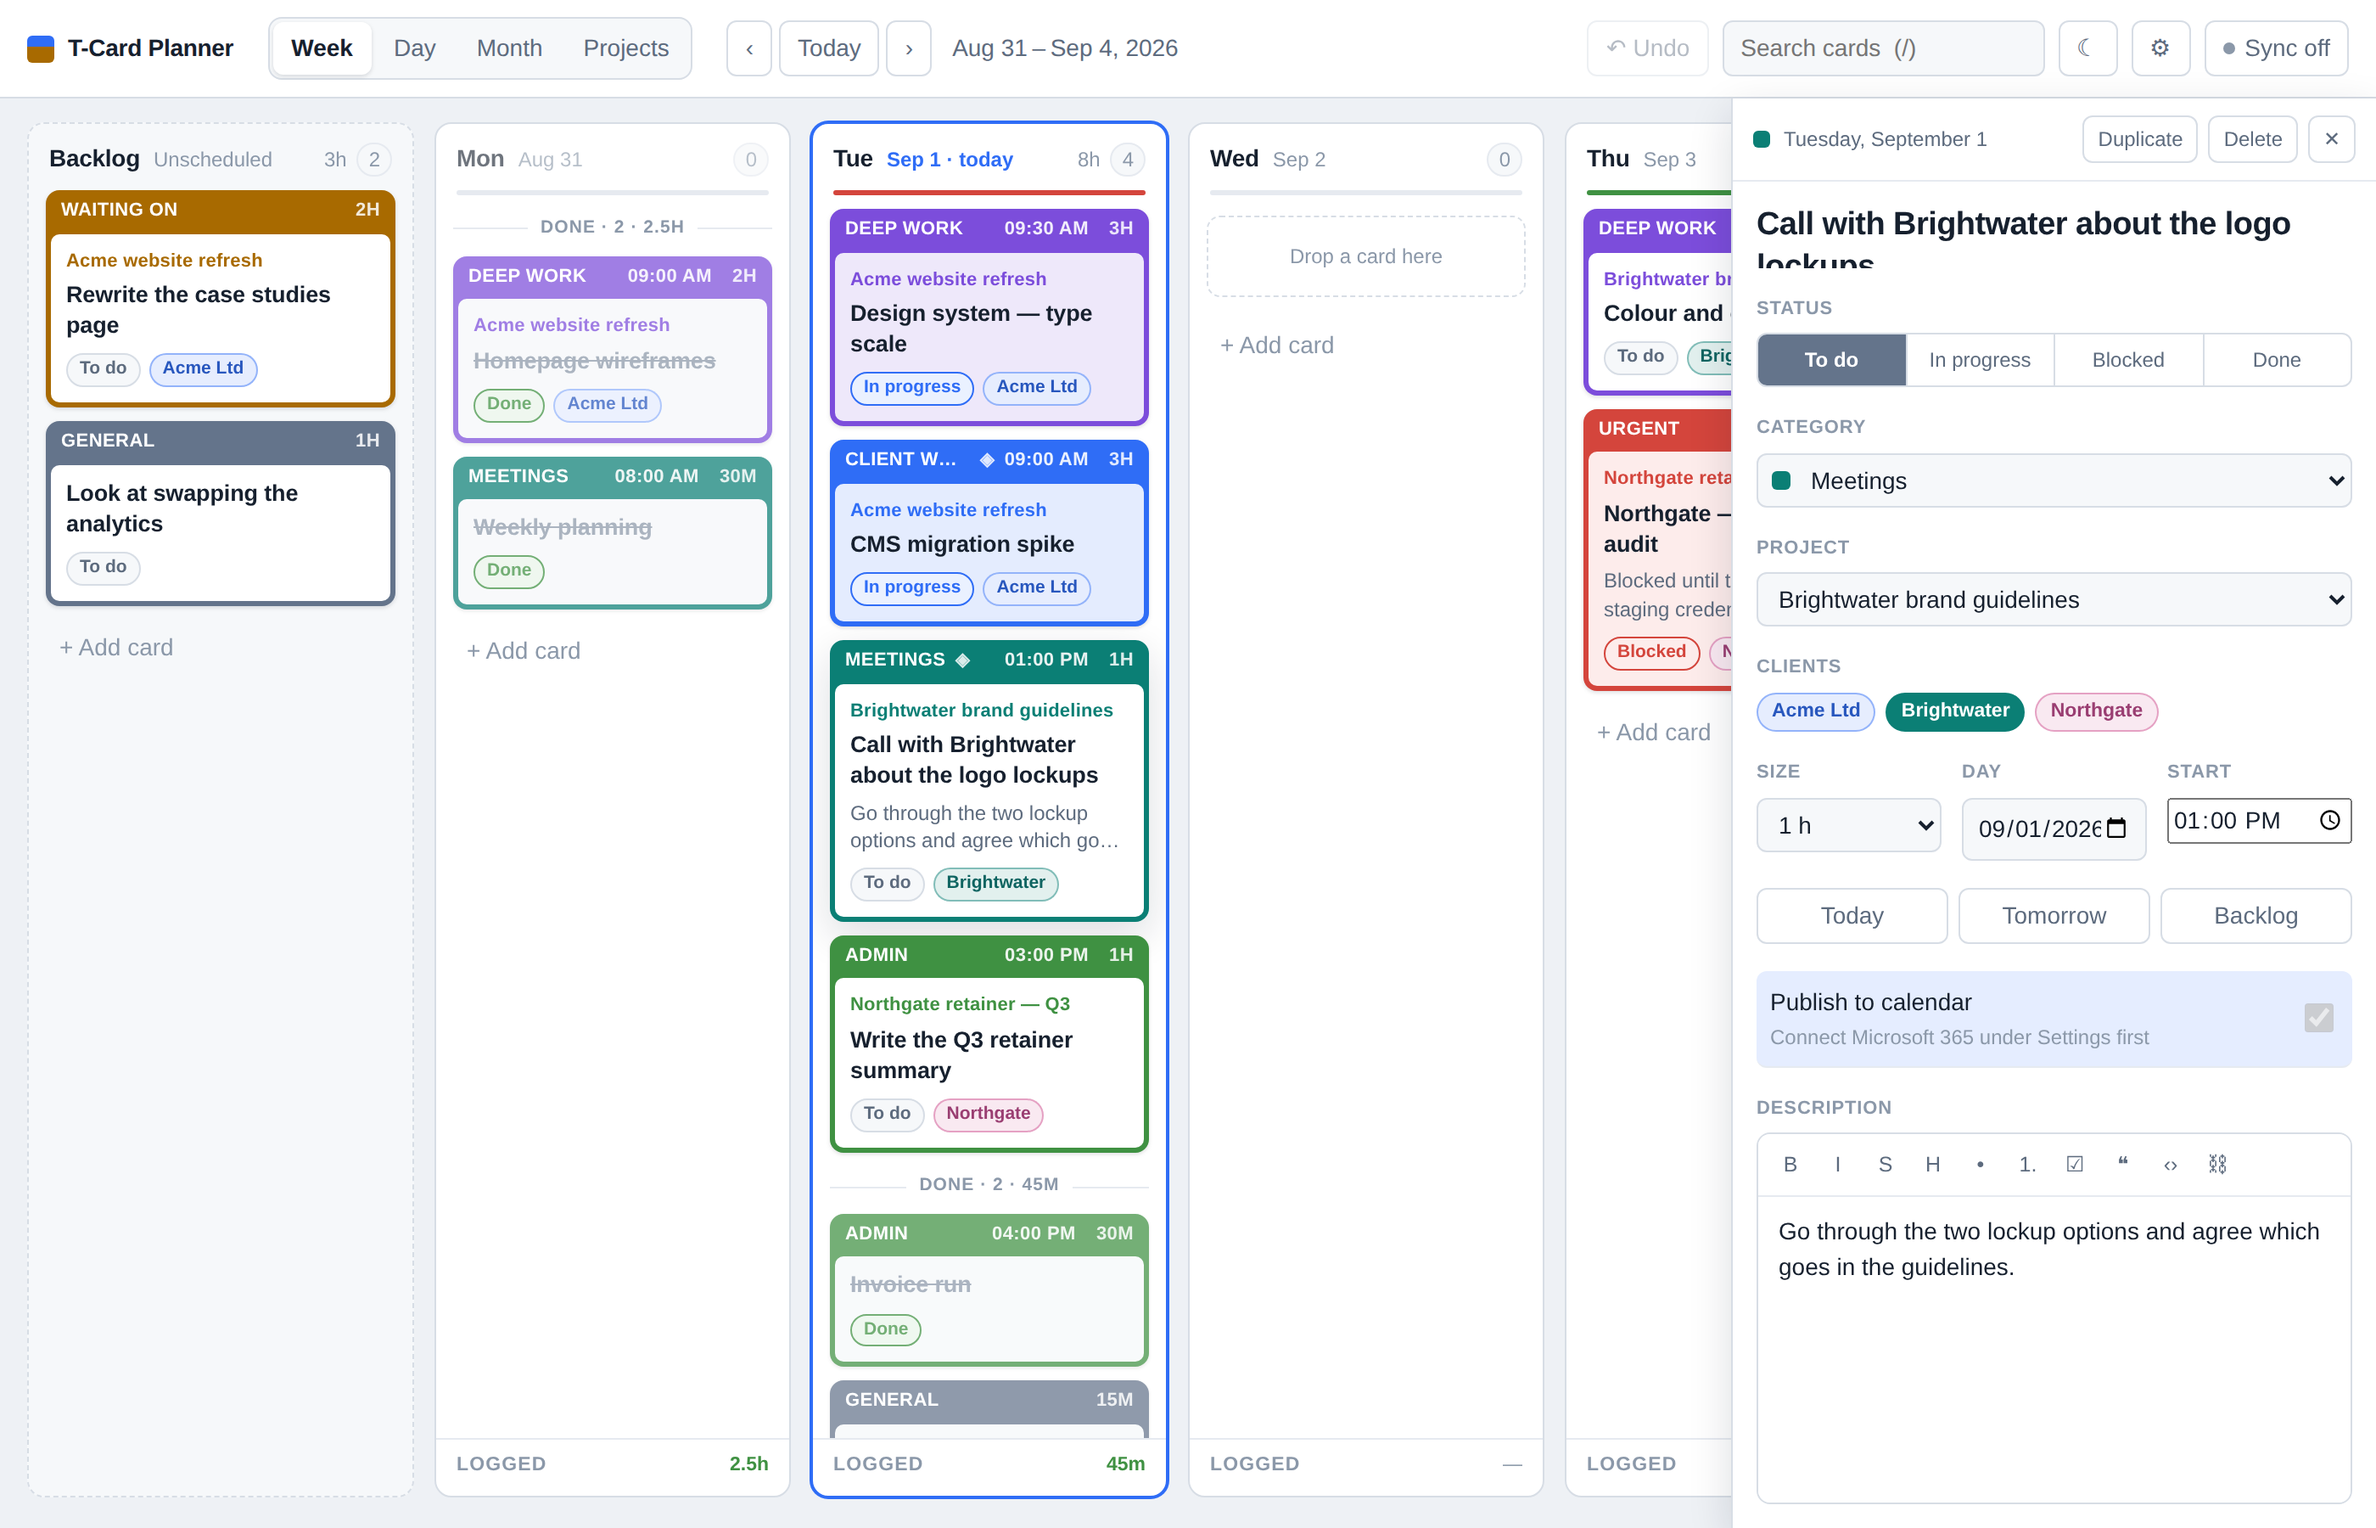
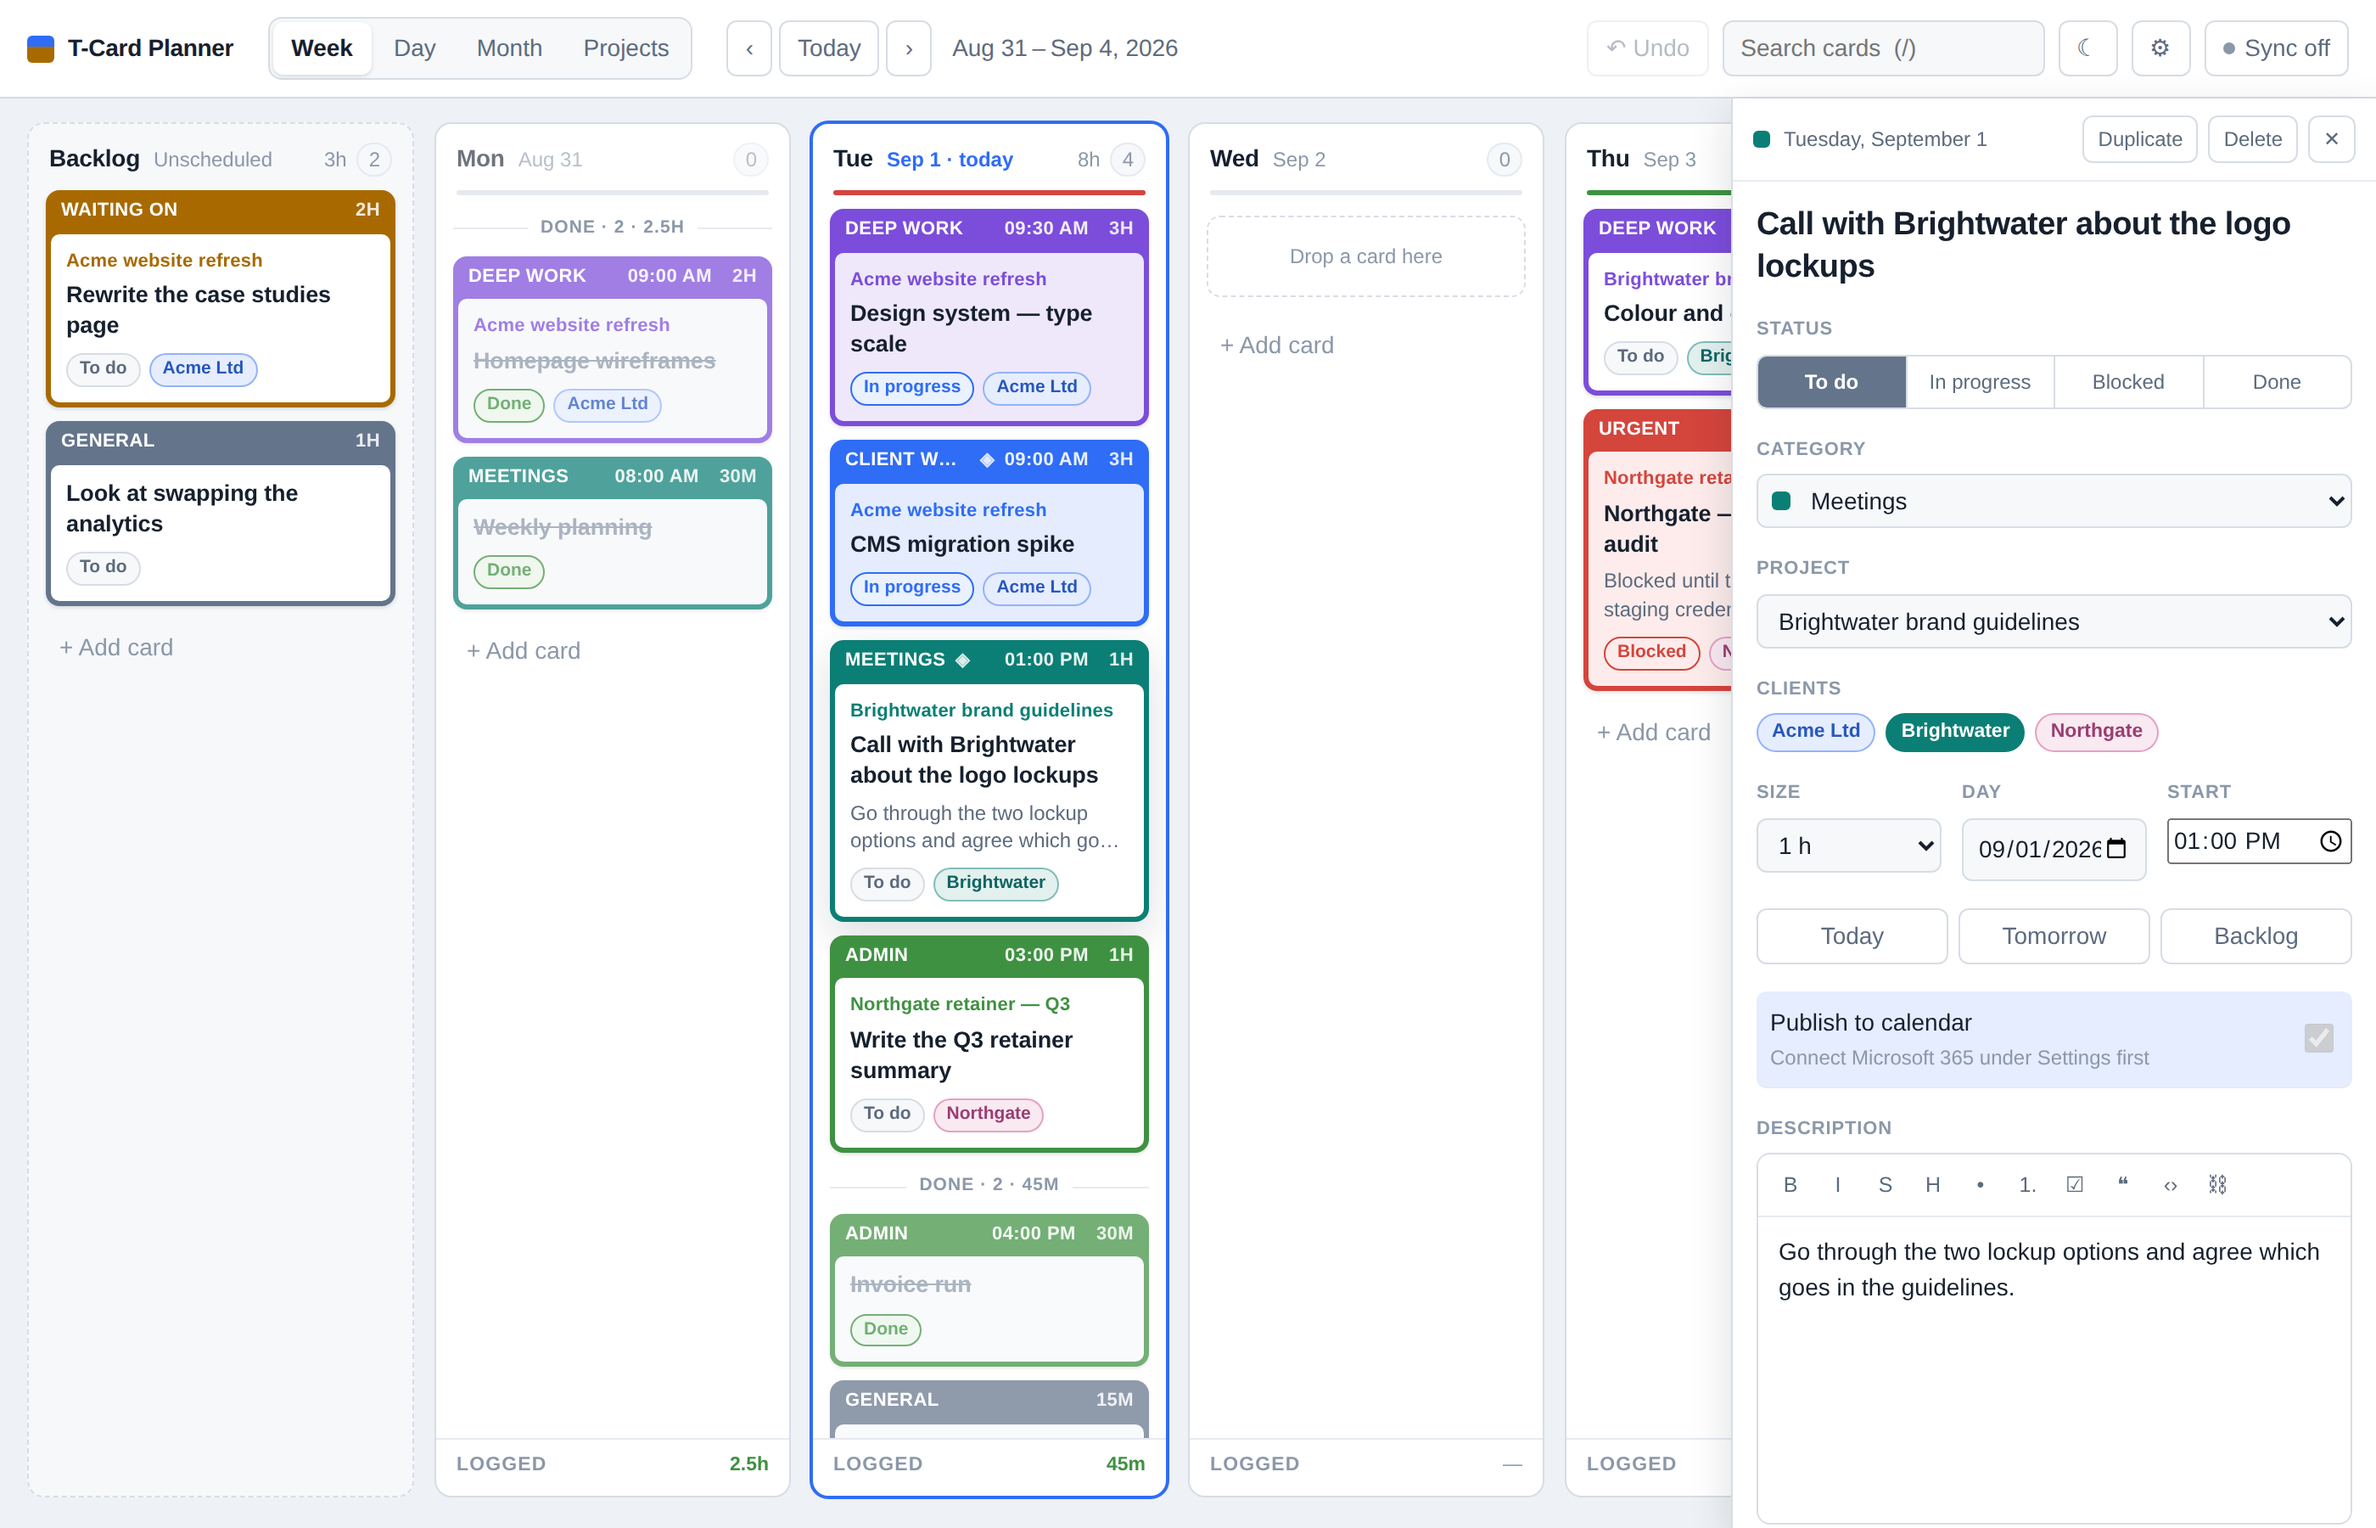
Stop the card panel squeezing its fields, so a long title fits
A two-line card title lost its second line. The panel is a column flex
container that scrolls, and its children kept the default `flex-shrink: 1`,
so a column of fields taller than the panel had every one of them shrunk a
little to try to avoid the scroll — the title included. That is also what
defeated `field-sizing: content`, which was on the title and computing a
height the layout then took back.

`flex: none` on the panel's children is the fix: the panel scrolls, its
contents keep the height they asked for.

The title still needs telling how tall it is, since a textarea will not
grow on its own, so it is measured and set from script rather than by
`field-sizing` — that also covers Firefox, which has no `field-sizing`.
It re-measures when the panel changes width, because a narrower panel wraps
the same title onto more lines; only a change of width counts, as reacting
to its own height change would loop.

Claude-Session: https://claude.ai/code/session_0158XyqVjYzRYRjqLMRmJDPS

Changed region(s): [[0.7146, 0.1556, 0.9943, 0.8711], [0.7457, 0.9956, 0.9943, 1.0]]

diff --git a/src/components/CardPanel.tsx b/src/components/CardPanel.tsx
@@ -1,4 +1,4 @@
-import { lazy, Suspense, useEffect, useRef, useState } from 'react';
+import { lazy, Suspense, useEffect, useLayoutEffect, useRef, useState } from 'react';
 import type { Card, CardSurface, CategoryId, LaneId, Status } from '../types';
 import { BACKLOG, CATEGORY_IDS, STATUSES, STATUS_LABELS, categoryLabel } from '../types';
 import { useCategories } from '../categories';
@@ -33,6 +33,40 @@ function fromTimeValue(value: string): number | null {
   const match = /^(\d{1,2}):(\d{2})$/.exec(value);
   if (!match) return null;
   return Number(match[1]) * 60 + Number(match[2]);
+}
+
+/**
+ * Grows a one-line textarea to fit what has been typed into it.
+ *
+ * `field-sizing: content` is meant to do this in CSS and doesn't here: inside
+ * the panel's column flex container it settles a line short of the text, so a
+ * two-line title loses its second line. Measuring the box we actually got and
+ * setting the height from it works wherever the panel ends up.
+ */
+function useGrowToFit(ref: React.RefObject<HTMLTextAreaElement | null>, value: string): void {
+  useLayoutEffect(() => {
+    const field = ref.current;
+    if (!field) return;
+
+    const fit = () => {
+      field.style.height = 'auto';
+      field.style.height = `${field.scrollHeight}px`;
+    };
+    fit();
+
+    // A narrower panel wraps the same title onto more lines. Only a change of
+    // width is worth re-measuring for — reacting to our own height change as
+    // well would be a loop.
+    let width = field.clientWidth;
+    const observer = new ResizeObserver((entries) => {
+      const next = entries[0].contentRect.width;
+      if (next === width) return;
+      width = next;
+      fit();
+    });
+    observer.observe(field);
+    return () => observer.disconnect();
+  }, [ref, value]);
 }
 
 function CardBody(props: CardPanelProps) {
@@ -71,6 +105,8 @@ function CardBody(props: CardPanelProps) {
   useEffect(() => {
     if (!card.title) titleRef.current?.focus();
   }, [card.id]); // eslint-disable-line react-hooks/exhaustive-deps
+
+  useGrowToFit(titleRef, card.title);
 
   const scheduled = lane !== BACKLOG ? lane : '';
   const openProjects = Object.values(projects)

diff --git a/src/styles.css b/src/styles.css
@@ -382,6 +382,11 @@ button, input, select, textarea { font: inherit; color: inherit; }
 
 .drawer-body { padding: 14px; overflow-y: auto; display: flex; flex-direction: column; gap: 16px; }
 
+/* The panel scrolls; its contents do not get squeezed to avoid scrolling.
+   Without this a column of fields taller than the panel has every one of them
+   shrunk a little, which is what cut the last line off a two-line title. */
+.drawer-body > * { flex: none; }
+
 .drawer-title {
   width: 100%;
   border: 0;
@@ -392,7 +397,9 @@ button, input, select, textarea { font: inherit; color: inherit; }
   letter-spacing: -0.015em;
   line-height: 1.3;
   resize: none;
-  field-sizing: content;
+  /* The card's title is a textarea grown to fit from script — see
+     `useGrowToFit`. No scrollbar, because it is never taller than its text. */
+  overflow-y: hidden;
   min-height: 1.3em;
   outline: none;
 }
